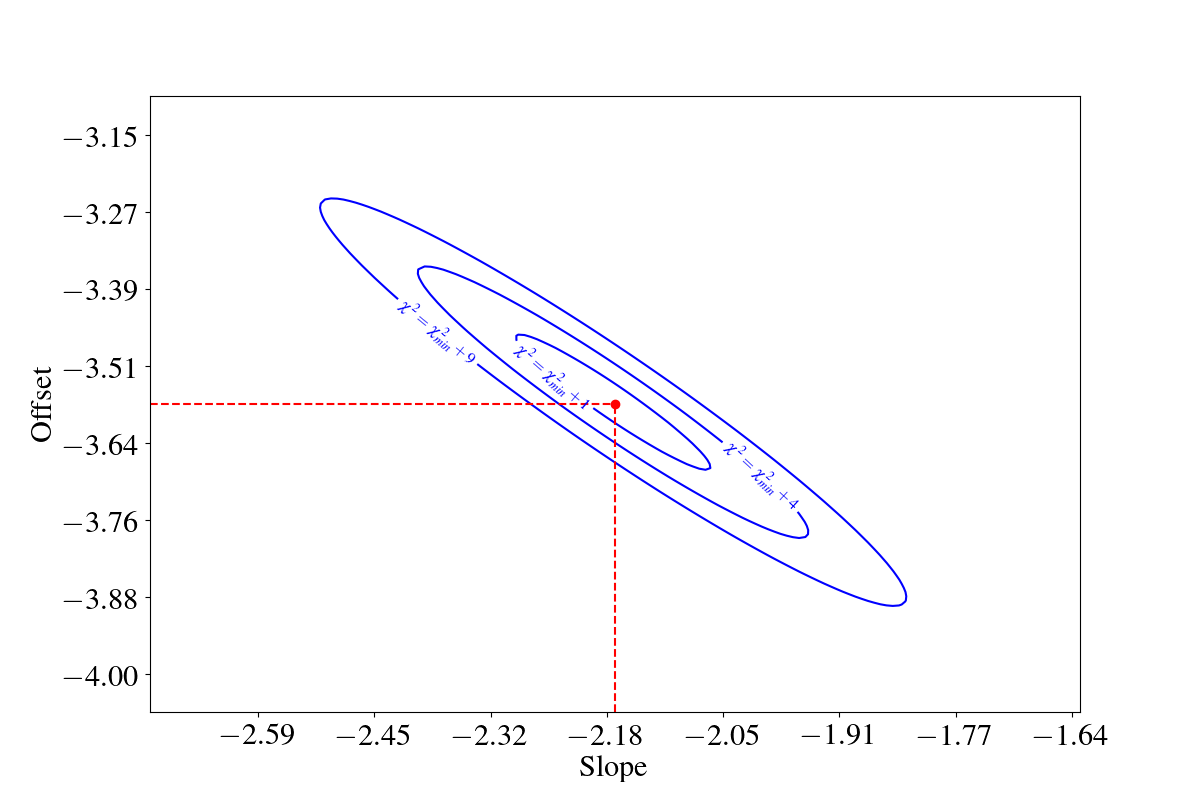
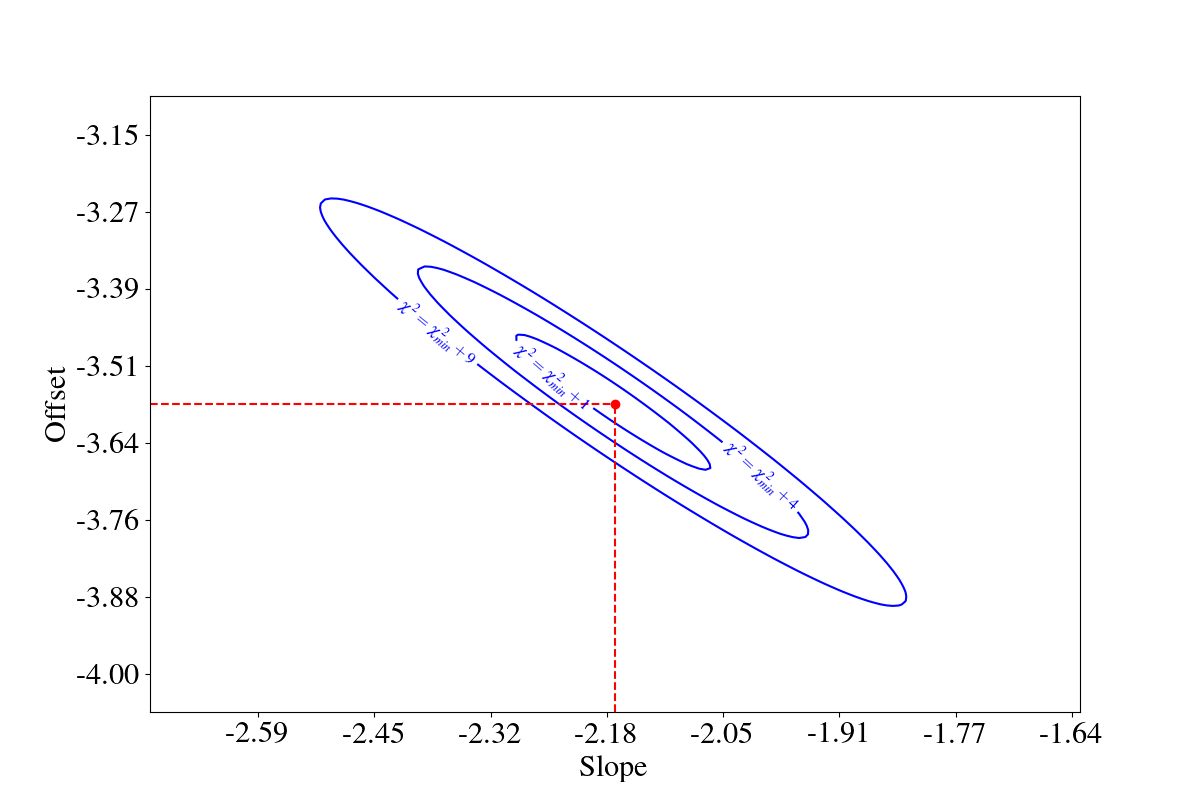
Implemented ODR
The heatmap produced can be a really cool plot, but work still to be done to make sure what's produced is correct.

diff --git a/p_l_relationship.py b/p_l_relationship.py
@@ -175,23 +175,6 @@ def mean_absolute_deviation(model_params, model, x_data, y_data, npoints):
     print(mad)
     return mad
 
-def sum_square_residuals(model_params, model, x_data, y_data, x_errs, y_errs):
-    points = np.column_stack((x_data,y_data))
-    lp1 = np.array([1,model(1,model_params)])
-    lp2 = np.array([4,model(4,model_params)])
-    
-    d = np.cross(lp2-lp1,points-lp1)/np.linalg.norm(lp2-lp1)
-    
-    theta = np.arctan(model_params[0])
-    
-    epsilon = x_data - d * np.abs(np.cos(theta))
-    eta = y_data - d * np.abs(np.sin(theta))
-    
-    ssr = np.sum((epsilon/x_errs)**2 + (eta/y_errs)**2)
-    
-    print(ssr)
-    return ssr
-
 
 
 def plot_calc(mags, mags_errs, periods, periods_errs, dist_pc, dist_pc_errs, bvcorrection, bverror):
@@ -347,72 +330,6 @@ def plot_calc_rm(mags, mags_errs, periods, periods_errs, dist_pc, dist_pc_errs, 
     
     return objs, periods, abs_mags, abs_mags_errs, log_periods, log_periods_errs, diff_inerrs, outlier
 
-def plot_calc_ssr(mags, mags_errs, periods, periods_errs, dist_pc, dist_pc_errs, bvcorrection, bverror):
-    
-    objs=next(os.walk('.'))[1]
-    objs = np.array(objs[2:-1])
-    
-    print(bvcorrection)
-    
-    abs_mags = (mags - 3.1 * bvcorrection) - 5*np.log10(dist_pc) + 5
-    
-    abs_mags_errs = np.sqrt(((mags_errs**2 + (3.1 * bverror)**2)) + (5*(dist_pc_errs/(np.log(10)*dist_pc)))**2)
-    
-    sort_index = np.argsort(periods)
-    
-    abs_mags = abs_mags[sort_index]
-    periods = periods[sort_index]
-    abs_mags_errs = abs_mags_errs[sort_index]
-    periods_errs = periods_errs[sort_index]
-    objs = objs[sort_index]
-    
-    class outlier:
-        abs_mag= []
-        abs_mag_err = []
-        period = []
-        period_err = []
-        log_period = []
-        log_period_err = []
-        obj = []
-        diff_inerr = []
-        
-    log_periods = np.log10(periods)
-    log_periods_errs = periods_errs/(np.log(10)*periods)
-    
-    initial_values = np.array([-2.117986741266576,-3.644020291235869])
-    
-    print('initial SSR = ', end='') # end='' to not start a new line - value printed by mean_absolute_deviation function
-    initial_ssr = sum_square_residuals(initial_values, fitting_model, periods, abs_mags, periods_errs, abs_mags_errs)
-    
-    fit = sp.optimize.minimize(sum_square_residuals, # the function to minimize
-                              initial_values, # where in 'parameter space' to start from
-                              args=(fitting_model, periods, abs_mags, periods_errs, abs_mags_errs)) # model function and data to use
-                             
-    # Termination output message is fit.message - did the minimisation complete successfully?
-    print(fit.message)
-    
-    print('minimised SSR = {}'.format(fit.fun))
-    ssr_min = sum_square_residuals([fit.x[0], fit.x[1]], fitting_model, periods, abs_mags, periods_errs, abs_mags_errs)
-    
-    degrees_of_freedom = periods.size - fit.x.size # Make sure you understand why!
-    print('DoF = {}'.format(degrees_of_freedom))
-    
-    reduced_ssr = ssr_min/degrees_of_freedom
-    print('reduced SSR = {}'.format(reduced_ssr))
-    
-    P_value = sp.stats.chi2.sf(ssr_min, degrees_of_freedom)
-    print('P(SSR, DoF) = {}'.format(P_value))
-    
-    print('Slope: ' + str(fit.x[0]))
-    
-    diff = abs_mags - (fit.x[0]*log_periods + fit.x[1])
-    
-    diff_inerrs = diff/(abs_mags_errs)
-    
-    #outlier.diff_inerr = (outlier.abs_mag - (fit.x[0]*outlier.log_period + fit.x[1]))/outlier.abs_mag_err
-    
-    return objs, periods, abs_mags, abs_mags_errs, log_periods, log_periods_errs, diff_inerrs, outlier
-
 
 def jackknifing(abs_mags, abs_mags_errs, periods):
     
@@ -491,47 +408,6 @@ def jackknifing_a(abs_mags, abs_mags_errs, periods):
         print("Minimised Chi-Squared: " + str(chi_squared_min), file=f)
         print("Degrees of Freedom: " + str(degrees_of_freedom), file=f)
         print("Reduced Chi-Squared: " + str(reduced_chi_squared), file=f)
-        f.close()
-        
-    return np.array([mean_slope,err_slope]), np.array([mean_offset,err_offset])
-
-def jackknifing_ssr(abs_mags, abs_mags_errs, periods, periods_errs):
-    
-    jackknifed_slopes = []
-    jackknifed_offsets = []
-    
-    for i in range(len(abs_mags)):
-        jackknifed_abs_mags = np.delete(abs_mags,i)
-        jackknifed_abs_mags_errs = np.delete(abs_mags_errs,i)
-        jackknifed_periods = np.delete(periods,i)
-        jackknifed_periods_errs = np.delete(periods_errs,i)
-        initial_values = np.array([-3,1])
-        fit = sp.optimize.minimize(sum_square_residuals,
-                                    initial_values,
-                                    args=(fitting_model, jackknifed_periods, jackknifed_abs_mags, jackknifed_periods_errs, jackknifed_abs_mags_errs))
-        
-        jackknifed_slopes = np.append(jackknifed_slopes,fit.x[0])
-        jackknifed_offsets = np.append(jackknifed_offsets,fit.x[1])
-        
-    mean_slope=np.mean(jackknifed_slopes)
-    mean_offset=np.mean(jackknifed_offsets)
-    
-    err_slope=np.std(jackknifed_slopes)
-    err_offset=np.std(jackknifed_offsets)
-    
-    print("Slope: " + str(mean_slope) + " +/- " + str(err_slope))
-    print("Offset: " + str(mean_offset) + " +/- " + str(err_offset))
-    ssr_min = sum_square_residuals([fit.x[0], fit.x[1]], fitting_model, periods, abs_mags, periods_errs, abs_mags_errs)
-    degrees_of_freedom = len(abs_mags) -2
-    reduced_ssr = ssr_min/degrees_of_freedom
-    
-    with open("PLOutputs.txt","w") as f:
-        print("## All points fitting using Deming Regression ##", file=f)
-        print("Slope: " + str(mean_slope) + " +/- " + str(err_slope), file=f)
-        print("Offset: " + str(mean_offset) + " +/- " + str(err_offset), file=f)
-        print("Minimised SSR: " + str(ssr_min), file=f)
-        print("Degrees of Freedom: " + str(degrees_of_freedom), file=f)
-        print("Reduced SSR: " + str(reduced_ssr), file=f)
         print(" ", file=f)
         f.close()
         
@@ -631,7 +507,7 @@ def plot_pl_rm(objs, abs_mags, abs_mags_errs, log_periods, log_periods_errs, dif
     plt.savefig("plrelationship_sans_outliers.png")
     plt.show()
 
-def plot_pl_ssr(objs, abs_mags, abs_mags_errs, log_periods, log_periods_errs, diff_inerrs, outlier, jacky):
+def plot_pl_odr(objs, abs_mags, abs_mags_errs, log_periods, log_periods_errs, diff_inerrs, beta):
     
     fig, axs = plt.subplots(2,1,height_ratios=(4,3))
     
@@ -649,13 +525,7 @@ def plot_pl_ssr(objs, abs_mags, abs_mags_errs, log_periods, log_periods_errs, di
     axs[0].sharex(axs[1])
     axs[1].set_ylabel("Standard Errors")
     
-    for i in range(len(objs)):
-        axs[0].text(log_periods[i],abs_mags[i],objs[i],size=10)
-        
-    """for i in range(len(outlier.obj)):
-        axs[0].text(outlier.log_period[i],outlier.abs_mag[i],outlier.obj[i],size=10,color="purple")  """               #Outlier
-    
-    axs[0].plot(log_periods, jacky, color='red', label='Our fit')
+    axs[0].plot(log_periods, beta[0]*log_periods+beta[1], color='red', label='Our fit')
     
     """gaia_y = -2.2 * log_periods - 2.05
     
@@ -676,7 +546,7 @@ def plot_pl_ssr(objs, abs_mags, abs_mags_errs, log_periods, log_periods_errs, di
     axs[0].legend(loc='best')
     
     fig.subplots_adjust(hspace=0)
-    plt.savefig("plrelationship_ssr.png")
+    plt.savefig("plrelationship_odr.png")
     print(objs)
     print(len(objs))
     plt.show()
@@ -933,57 +803,23 @@ def aliasing_rm(log_periods, abs_mags, abs_mags_errs, slope, offset):
     plt.tight_layout()
     plt.show()    
 
-def aliasing_ssr(log_periods, abs_mags, log_periods_errs, abs_mags_errs, slope, offset):
+def aliasing_odr(log_periods, abs_mags, log_periods_errs, abs_mags_errs, slope, offset):
+    def linfunc(p, x):
+            m, c = p
+            return m*x + c
     
-    linslopes = np.linspace(-4,1,1001)
-    linoffsets = np.linspace(-5,0,1001)
+    lin_model = sp.odr.Model(linfunc)
     
-    slopessrs = []
-    offsetssrs = []
+    data = sp.odr.RealData(log_periods, abs_mags, sx=log_periods_errs, sy=abs_mags_errs)
     
-    for linslope in linslopes:
-        
-        def linfunc(x, *param):
-            return linslope*x + param[0]
-        
-        fit = sp.optimize.curve_fit(linfunc, log_periods, abs_mags, sigma=abs_mags_errs, absolute_sigma=True, p0=np.array([-3,1]), check_finite=True, maxfev=10**6)
-        
-        print(fit[0][0])
-        
-        minssr = sum_square_residuals(fit[0][0],linfunc,log_periods,abs_mags,log_periods_errs,abs_mags_errs)
-        
-        slopessrs = np.append(slopessrs,minssr)
+    odr = sp.odr.ODR(data, lin_model, beta0=[slope[0],offset[0]])
     
+    out = odr.run()
     
-    for linoffset in linoffsets:
-        
-        def linfunc(x, *param):
-            return param[0]*x + linoffset
-        
-        fit = sp.optimize.curve_fit(linfunc, log_periods, abs_mags, sigma=abs_mags_errs, absolute_sigma=True, p0=np.array([-3,1]), check_finite=True, maxfev=10**6)
-        
-        minssr = sum_square_residuals(fit[0][0],linfunc,log_periods,abs_mags,log_periods_errs,abs_mags_errs)
-        
-        offsetssrs = np.append(offsetssrs,minssr)
-        
-    plt.plot(linslopes,slopessrs)
-    plt.xlabel("Slope")
-    plt.ylabel("Minimised Sum of Squared Residuals")
-    plt.tight_layout()
-    plt.show()
-    plt.plot(linoffsets,offsetssrs)
-    plt.xlabel("Offset")
-    plt.ylabel("Minimised Sum of Squared Residuals")
-    plt.tight_layout()
-    plt.show()
-    
-    def linfunc(x, *params):
-            return params[0][0]*x + params[0][1]
-        
-    ssr_min = sum_square_residuals([slope[0],offset[0]], linfunc, log_periods, abs_mags, log_periods_errs, abs_mags_errs)
+    sum_square_error_min = out.res_var
     
     extent = 3.5        #Standard Errors
-    n_points = 150      #Mesh Density
+    n_points = 250     #Mesh Density
     
     p0_range = extent * slope[1]
     p1_range = extent * offset[1]
@@ -995,12 +831,9 @@ def aliasing_ssr(log_periods, abs_mags, log_periods_errs, abs_mags_errs, slope, 
     
     for j, p1_val in enumerate(p1_axis): 
         for i, p0_val in enumerate(p0_axis): # Nested loops for 'clarity'...
-            plot_data[j][i] = sum_square_residuals([p0_val, p1_val], # function evaluated n_points*n_points times!
-                                        linfunc, 
-                                        log_periods, 
-                                        abs_mags,
-                                        log_periods_errs, 
-                                        abs_mags_errs)
+            odr = sp.odr.ODR(data, lin_model, beta0=[p0_val,p1_val], ifixb=[0,0], overwrite=True)
+            out = odr.run()
+            plot_data[j][i] = out.res_var
             
     plt.figure(figsize=(10,8))
     im = plt.imshow(plot_data, # grid of chi-squared values
@@ -1015,7 +848,7 @@ def aliasing_ssr(log_periods, abs_mags, log_periods_errs, abs_mags_errs, slope, 
     plt.ylabel('Offset')
 
     cbar=plt.colorbar(im, orientation='vertical') # Colorbar and label
-    cbar.set_label('SSR', fontsize=12)
+    cbar.set_label('Residual Variance', fontsize=12)
 
     # Add in best fit point and dashed lines to the axes
     plt.plot(slope[0], offset[0], 'wo') 
@@ -1023,19 +856,19 @@ def aliasing_ssr(log_periods, abs_mags, log_periods_errs, abs_mags_errs, slope, 
             linestyle='--', color='w')
     plt.plot((p0_axis[0], slope[0]), (offset[0], offset[0]), # horizontal line
             linestyle='--', color='w')
-    plt.savefig("pl_ssr_heatmap_sans_outliers.png")
+    plt.savefig("pl_odr_sse_heatmap.png")
     plt.tight_layout()
     plt.show()
     
     X, Y = np.meshgrid(p0_axis, p1_axis, indexing='xy')
-    contour_data = plot_data - ssr_min
+    contour_data = plot_data - sum_square_error_min
 
     levels = [1, 4, 9] # Contour levels in delta chi-squared of 1, 4 & 9 correspond to 1, 2 & 3 standard errors
     plt.figure(figsize=(12,8))
 
     #Plot and label contours: (comment out labelling to remove text over contours)
     contour_plot = plt.contour(X, Y, contour_data, levels=levels, colors='b', origin='lower')
-    plt.clabel(contour_plot, levels, fontsize=12, inline=1, fmt=r'$SSR = SSR_{min}+%1.0f$') 
+    plt.clabel(contour_plot, levels, fontsize=12, inline=1, fmt=r'$RV = RV_{min}+%1.0f$') 
 
     plt.xlabel('Slope') 
     plt.ylabel('Offset')
@@ -1055,9 +888,64 @@ def aliasing_ssr(log_periods, abs_mags, log_periods_errs, abs_mags_errs, slope, 
     plt.plot(slope[0], offset[0], 'ro') 
     plt.plot((slope[0], slope[0]), (p1_axis[0], offset[0]), linestyle='--', color='r')
     plt.plot((p0_axis[0], slope[0]), (offset[0], offset[0]), linestyle='--', color='r')
-    plt.savefig("pl_ssr_contour_sans_outliers.png")
+    plt.savefig("pl_odr_sse_contour.png")
     plt.tight_layout()
     plt.show()
+
+
+
+def orthogonal_distance_regression(mags, mags_errs, periods, periods_errs, dist_pc, dist_pc_errs, bvcorrection, bverror):
+    
+    objs=next(os.walk('.'))[1]
+    objs = np.array(objs[2:-1])
+    
+    print(bvcorrection)
+    
+    abs_mags = (mags - 3.1 * bvcorrection) - 5*np.log10(dist_pc) + 5
+    
+    abs_mags_errs = np.sqrt(((mags_errs**2 + (3.1 * bverror)**2)) + (5*(dist_pc_errs/(np.log(10)*dist_pc)))**2)
+    
+    sort_index = np.argsort(periods)
+    
+    abs_mags = abs_mags[sort_index]
+    periods = periods[sort_index]
+    abs_mags_errs = abs_mags_errs[sort_index]
+    periods_errs = periods_errs[sort_index]
+    objs = objs[sort_index]
+    
+    def log_func(p, x):
+        m, c = p
+        return m*np.log10(x) + c
+    
+    log_model = sp.odr.Model(log_func)
+    
+    data = sp.odr.RealData(periods, abs_mags, sx=periods_errs, sy=abs_mags_errs)
+    
+    odr = sp.odr.ODR(data, log_model, beta0=[-2.17175,3.57509])
+    
+    out = odr.run()
+    
+    out.pprint()
+    
+    log_periods = np.log10(periods)
+    log_periods_errs = periods_errs/(np.log(10)*periods)
+
+    diff = abs_mags - (out.beta[0]*log_periods + out.beta[1])
+    
+    diff_inerrs = diff/(abs_mags_errs)
+    
+    degrees_of_freedom = len(objs) - len(out.beta)
+    
+    with open("PLOutputs.txt","a") as f:
+        print("## Orthogonal Distance Regression Values ##", file=f)
+        print("Slope: " + str(out.beta[0]) + " +/- " + str(out.sd_beta[0]), file=f)
+        print("Offset: " + str(out.beta[1]) + " +/- " + str(out.sd_beta[1]), file=f)
+        print("Minimised Sum of Squares of errors: " + str(out.sum_square), file=f)
+        print("Degrees of Freedom: " + str(degrees_of_freedom), file=f)
+        print("Residual Variance: " + str(out.sum_square/degrees_of_freedom), file=f)
+        f.close()
+    
+    return objs, periods, abs_mags, abs_mags_errs, log_periods, log_periods_errs, diff_inerrs, out.beta, np.array([out.beta[0],out.sd_beta[0]]), np.array([out.beta[1],out.sd_beta[1]])
 
 
 
@@ -1088,17 +976,14 @@ def pl_gen_sans_outliers():
 
     aliasing_rm(log_periods, abs_mags, abs_mags_errs, slope_array, offset_array)
 
-def pl_gen_ssr():    
+def pl_gen_odr():
     mags, mags_errs, periods, periods_errs = get_periods()
     #dist_pc, dist_pc_errs = get_parallaxes()
     dist_pc, dist_pc_errs, bvcorrection, bverror = read_parallaxes()
-    objs, periods, abs_mags, abs_mags_errs, log_periods, log_periods_errs, diff_inerrs, outlier = plot_calc_ssr(mags, mags_errs, periods, periods_errs, dist_pc, dist_pc_errs, bvcorrection, bverror)
-    slope_array, offset_array = jackknifing_ssr(abs_mags, abs_mags_errs, periods, periods_errs)
-    jacky = jackgen(slope_array, offset_array, log_periods)
-    plot_pl_ssr(objs, abs_mags, abs_mags_errs, log_periods, log_periods_errs, diff_inerrs, outlier, jacky)
-    aliasing_ssr(log_periods, abs_mags, log_periods_errs, abs_mags_errs, slope_array, offset_array)
-
+    objs, periods, abs_mags, abs_mags_errs, log_periods, log_periods_errs, diff_inerrs, beta, slope_array, offset_array = orthogonal_distance_regression(mags, mags_errs, periods, periods_errs, dist_pc, dist_pc_errs, bvcorrection, bverror)
+    plot_pl_odr(objs, abs_mags, abs_mags_errs, log_periods, log_periods_errs, diff_inerrs, beta)
+    aliasing_odr(log_periods, abs_mags, log_periods_errs, abs_mags_errs, slope_array, offset_array)
 
 pl_gen()
 pl_gen_sans_outliers()
-#pl_gen_ssr()
+pl_gen_odr()
